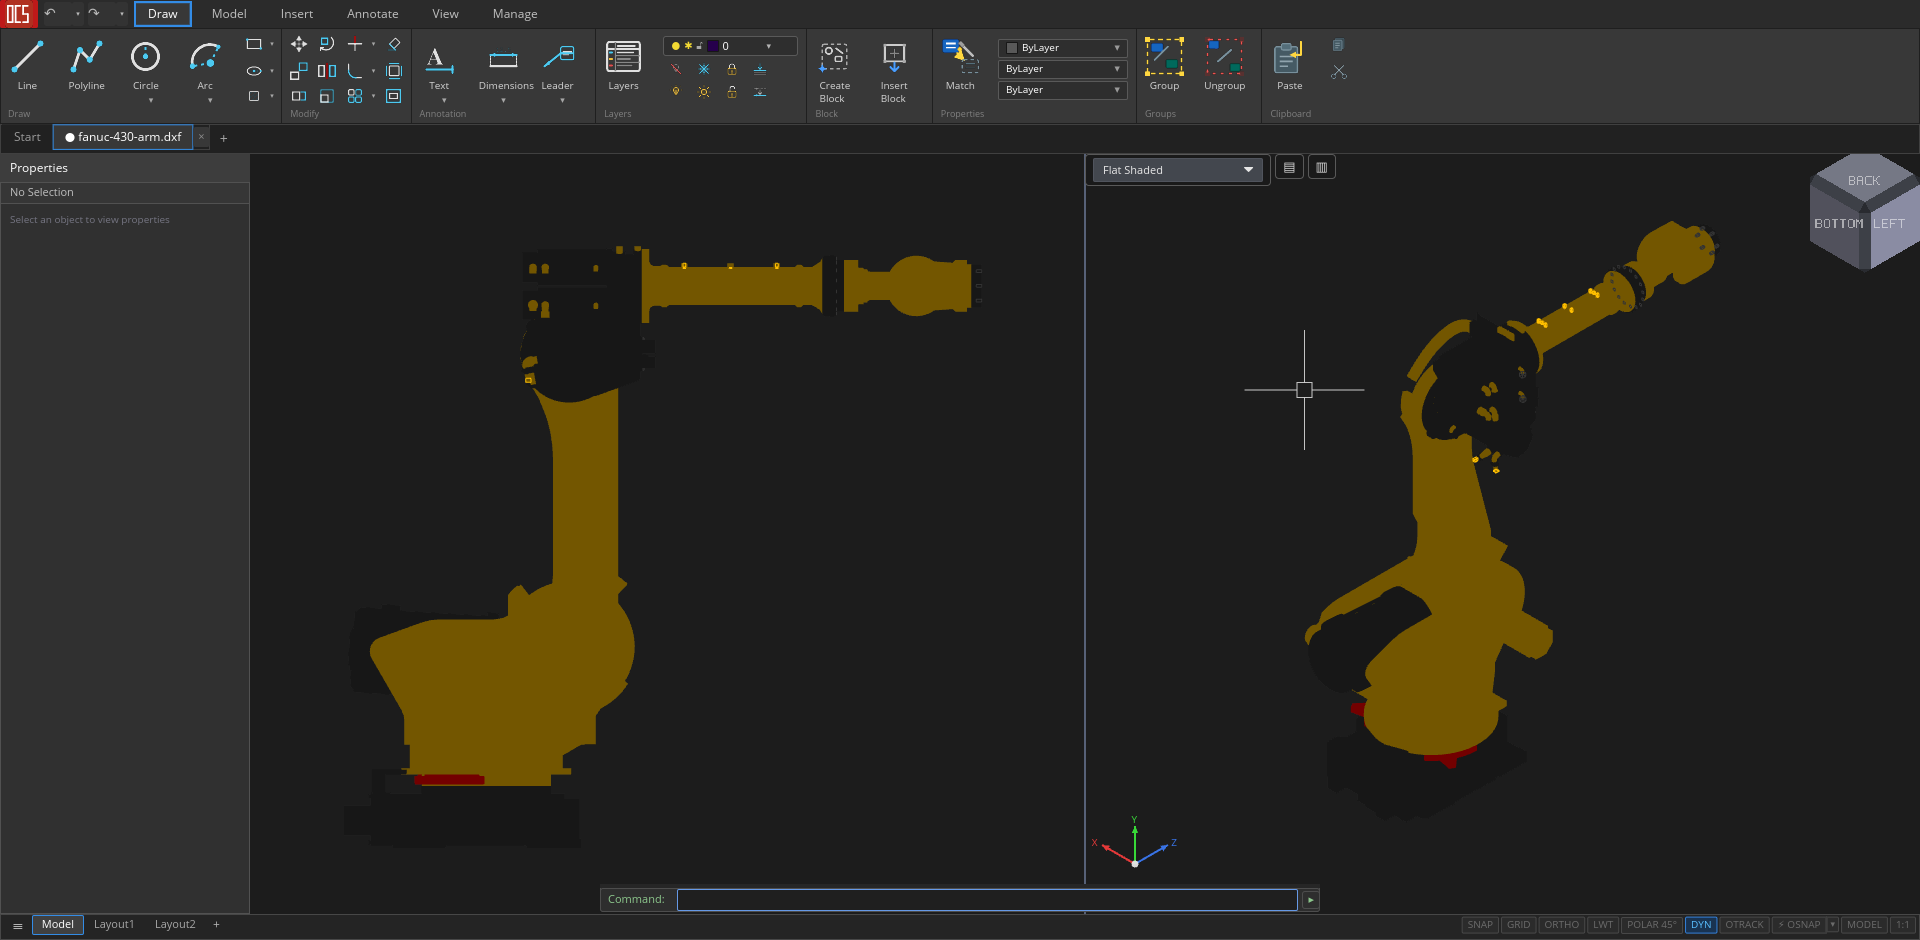
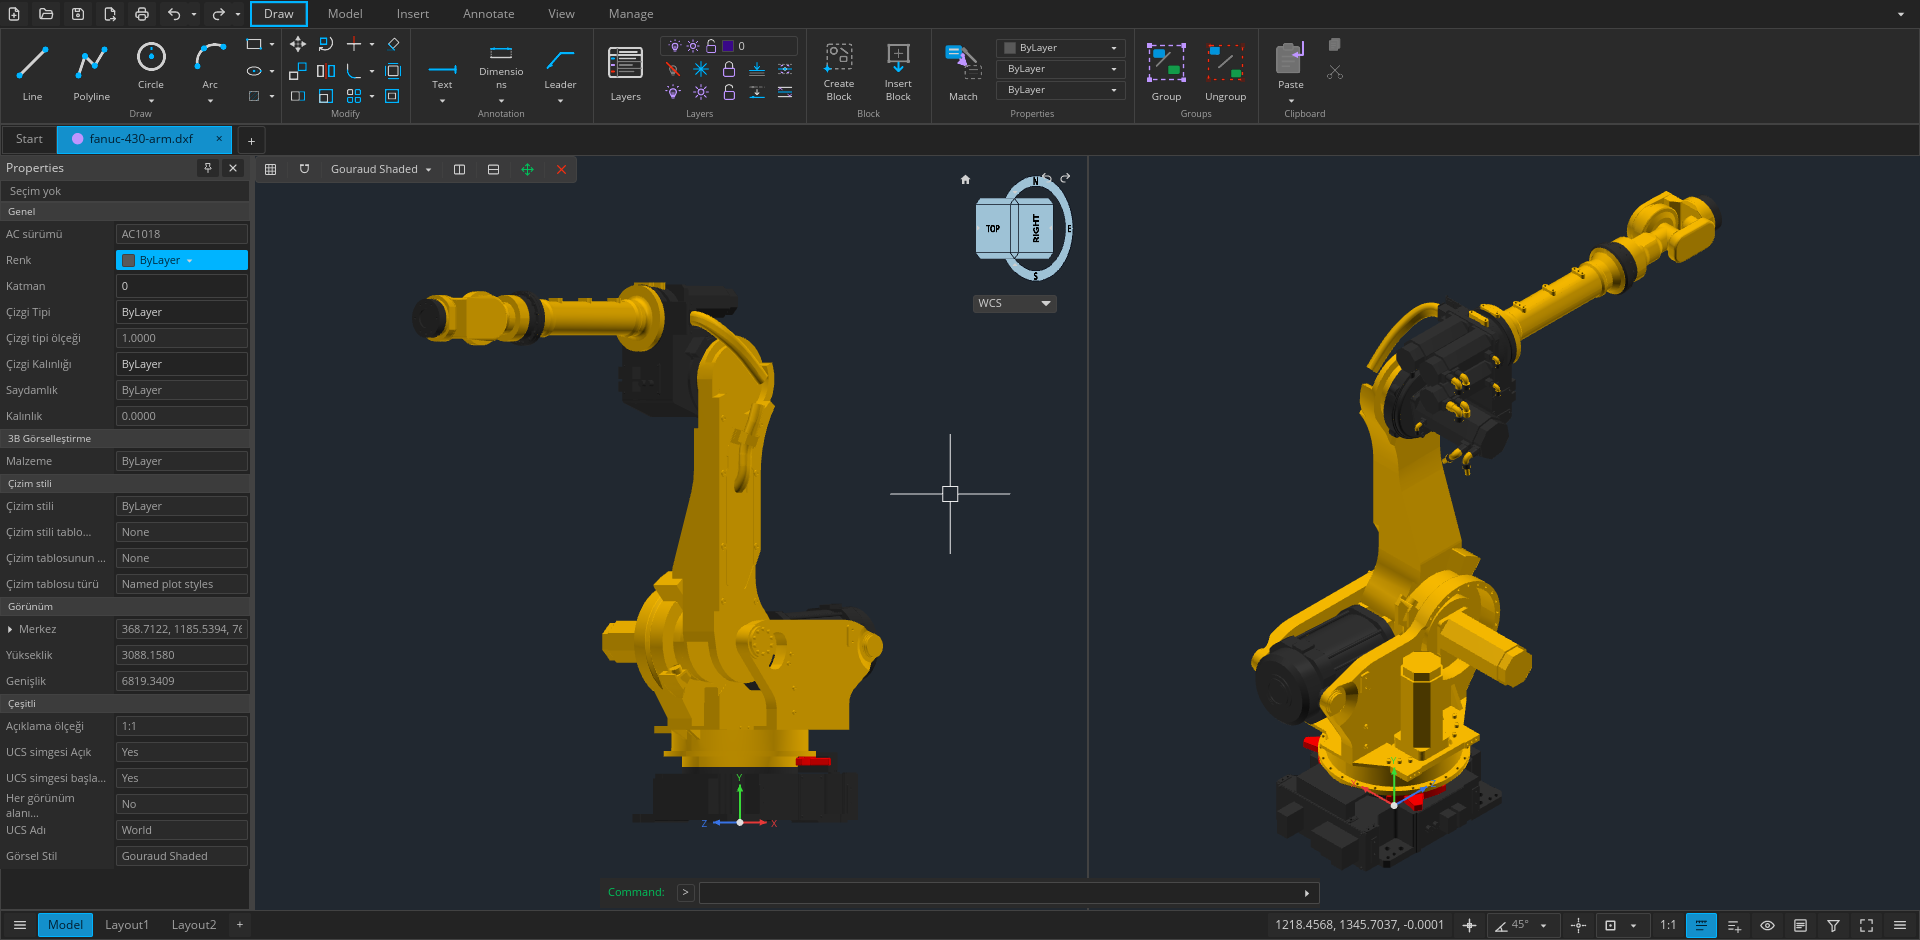
docs: update modeling screenshot

diff --git a/docs/readme/README.hi.md b/docs/readme/README.hi.md
@@ -36,7 +36,7 @@ Open CAD Studio तकनीकी ड्राइंग, लेआउट का
 - **GPU रेंडरिंग** — `wgpu` से तेज़ किए गए 2D और 3D व्यूपोर्ट, ऑर्थोग्राफ़िक और पर्सपेक्टिव कैमरा सहित।
 - **विस्तार योग्य कार्यप्रवाह** — मूल प्लगइन, कमांड स्क्रिप्ट, हेडलेस रूपांतरण और पंक्ति-आधारित JSON स्वचालन API।
 
-<p align="center"><img src="https://github.com/user-attachments/assets/2a037a09-e8e8-498c-8ed3-58ecb8ae958d" alt="Open CAD Studio में 3D मॉडल" width="100%"></p>
+<p align="center"><img src="../../site/modeling.png" alt="Open CAD Studio में 3D मॉडल" width="100%"></p>
 
 ## फ़ाइल कार्यप्रवाह
 

diff --git a/docs/readme/README.bg.md b/docs/readme/README.bg.md
@@ -38,7 +38,7 @@ Open CAD Studio е междуплатформено приложение за т
 - **GPU визуализация** — ускорени 2D и 3D изгледи чрез `wgpu`, с ортографски и перспективни камери.
 - **Разширяеми работни процеси** — локални приставки, командни скриптове, преобразуване без графичен интерфейс и редово ориентиран JSON API за автоматизация.
 
-<p align="center"><img src="https://github.com/user-attachments/assets/2a037a09-e8e8-498c-8ed3-58ecb8ae958d" alt="3D модел в Open CAD Studio" width="100%"></p>
+<p align="center"><img src="../../site/modeling.png" alt="3D модел в Open CAD Studio" width="100%"></p>
 
 ## Работа с файлове
 

diff --git a/docs/readme/README.ru.md b/docs/readme/README.ru.md
@@ -36,7 +36,7 @@ Open CAD Studio — кроссплатформенное приложение д
 - **Отрисовка на GPU** — ускоренные 2D- и 3D-виды через `wgpu`, ортографическая и перспективная камеры.
 - **Расширяемые процессы** — нативные плагины, сценарии команд, преобразование без интерфейса и построчный JSON API автоматизации.
 
-<p align="center"><img src="https://github.com/user-attachments/assets/2a037a09-e8e8-498c-8ed3-58ecb8ae958d" alt="3D-модель в Open CAD Studio" width="100%"></p>
+<p align="center"><img src="../../site/modeling.png" alt="3D-модель в Open CAD Studio" width="100%"></p>
 
 ## Работа с файлами
 

diff --git a/docs/readme/README.tr.md b/docs/readme/README.tr.md
@@ -38,7 +38,7 @@ Proje aktif olarak geliştirilmektedir. Önemli üretim çizimlerinin yedeklerin
 - **GPU ile görüntüleme** — `wgpu` üzerinden hızlandırılmış 2B ve 3B görünüm pencereleri; ortografik ve perspektif kameralar.
 - **Genişletilebilir iş akışları** — yerel eklentiler, komut betikleri, arayüzsüz dönüştürme ve satır tabanlı JSON otomasyon API'si.
 
-<p align="center"><img src="https://github.com/user-attachments/assets/2a037a09-e8e8-498c-8ed3-58ecb8ae958d" alt="Open CAD Studio içinde 3B model" width="100%"></p>
+<p align="center"><img src="../../site/modeling.png" alt="Open CAD Studio içinde 3B model" width="100%"></p>
 
 ## Dosya iş akışları
 

diff --git a/docs/readme/README.hu.md b/docs/readme/README.hu.md
@@ -36,7 +36,7 @@ A projekt aktív fejlesztés alatt áll. A fontos gyártási rajzokról tarts bi
 - **GPU-megjelenítés** — `wgpu` által gyorsított 2D és 3D nézetek, ortografikus és perspektivikus kamerákkal.
 - **Bővíthető munkafolyamatok** — natív bővítmények, parancsfájlok, felület nélküli konverzió és soralapú JSON automatizálási API.
 
-<p align="center"><img src="https://github.com/user-attachments/assets/2a037a09-e8e8-498c-8ed3-58ecb8ae958d" alt="3D modell az Open CAD Studióban" width="100%"></p>
+<p align="center"><img src="../../site/modeling.png" alt="3D modell az Open CAD Studióban" width="100%"></p>
 
 ## Fájlmunkafolyamatok
 

diff --git a/docs/readme/README.es.md b/docs/readme/README.es.md
@@ -36,7 +36,7 @@ El proyecto está en desarrollo activo. Conserva copias de seguridad de los dibu
 - **Renderizado por GPU** — vistas 2D y 3D aceleradas mediante `wgpu`, con cámaras ortográfica y en perspectiva.
 - **Flujos ampliables** — complementos nativos, scripts de comandos, conversión sin interfaz y una API de automatización JSON basada en líneas.
 
-<p align="center"><img src="https://github.com/user-attachments/assets/2a037a09-e8e8-498c-8ed3-58ecb8ae958d" alt="Modelo 3D en Open CAD Studio" width="100%"></p>
+<p align="center"><img src="../../site/modeling.png" alt="Modelo 3D en Open CAD Studio" width="100%"></p>
 
 ## Flujos de archivos
 

diff --git a/docs/readme/README.fi.md b/docs/readme/README.fi.md
@@ -36,7 +36,7 @@ Projektia kehitetään aktiivisesti. Säilytä tärkeistä tuotantopiirustuksist
 - **GPU-renderöinti** — `wgpu`:n kiihdyttämät 2D- ja 3D-näkymät sekä ortografiset ja perspektiivikamerat.
 - **Laajennettavat työnkulut** — natiiviliitännäiset, komentoskriptit, käyttöliittymätön muunnos ja rivipohjainen JSON-automaatiorajapinta.
 
-<p align="center"><img src="https://github.com/user-attachments/assets/2a037a09-e8e8-498c-8ed3-58ecb8ae958d" alt="3D-malli Open CAD Studiossa" width="100%"></p>
+<p align="center"><img src="../../site/modeling.png" alt="3D-malli Open CAD Studiossa" width="100%"></p>
 
 ## Tiedostotyönkulut
 

diff --git a/docs/readme/README.de.md b/docs/readme/README.de.md
@@ -36,7 +36,7 @@ Das Projekt wird aktiv entwickelt. Bewahre Sicherungskopien wichtiger Produktion
 - **GPU-Darstellung** — beschleunigte 2D- und 3D-Ansichten über `wgpu` mit orthografischen und perspektivischen Kameras.
 - **Erweiterbare Abläufe** — native Plugins, Befehlsskripte, Konvertierung ohne Oberfläche und zeilenbasierte JSON-Automatisierungs-API.
 
-<p align="center"><img src="https://github.com/user-attachments/assets/2a037a09-e8e8-498c-8ed3-58ecb8ae958d" alt="3D-Modell in Open CAD Studio" width="100%"></p>
+<p align="center"><img src="../../site/modeling.png" alt="3D-Modell in Open CAD Studio" width="100%"></p>
 
 ## Dateiabläufe
 

diff --git a/docs/readme/README.pt-BR.md b/docs/readme/README.pt-BR.md
@@ -36,7 +36,7 @@ O projeto está em desenvolvimento ativo. Mantenha cópias de segurança de dese
 - **Renderização por GPU** — viewports 2D e 3D aceleradas por `wgpu`, com câmeras ortográfica e em perspectiva.
 - **Fluxos extensíveis** — plugins nativos, scripts de comandos, conversão sem interface e API de automação JSON baseada em linhas.
 
-<p align="center"><img src="https://github.com/user-attachments/assets/2a037a09-e8e8-498c-8ed3-58ecb8ae958d" alt="Modelo 3D no Open CAD Studio" width="100%"></p>
+<p align="center"><img src="../../site/modeling.png" alt="Modelo 3D no Open CAD Studio" width="100%"></p>
 
 ## Fluxos de arquivos
 
